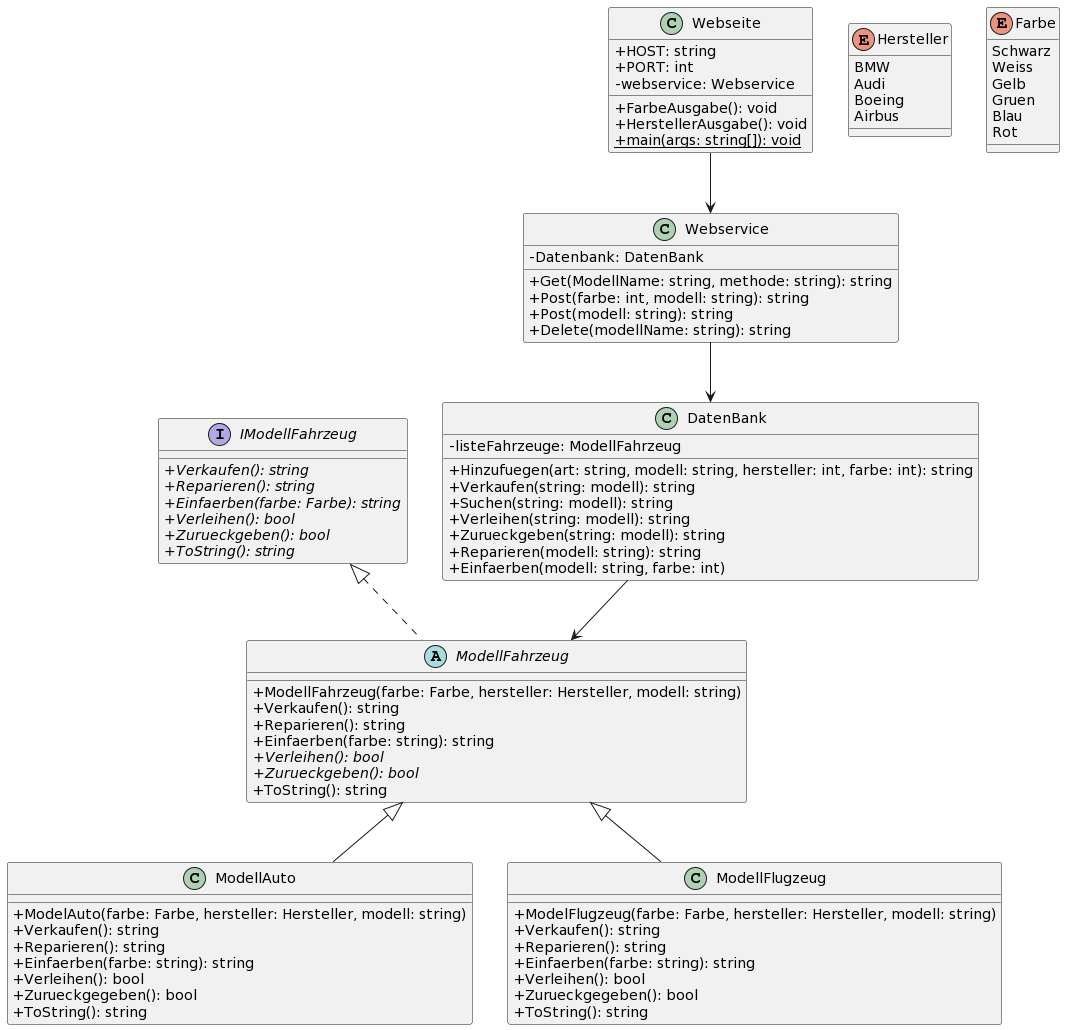
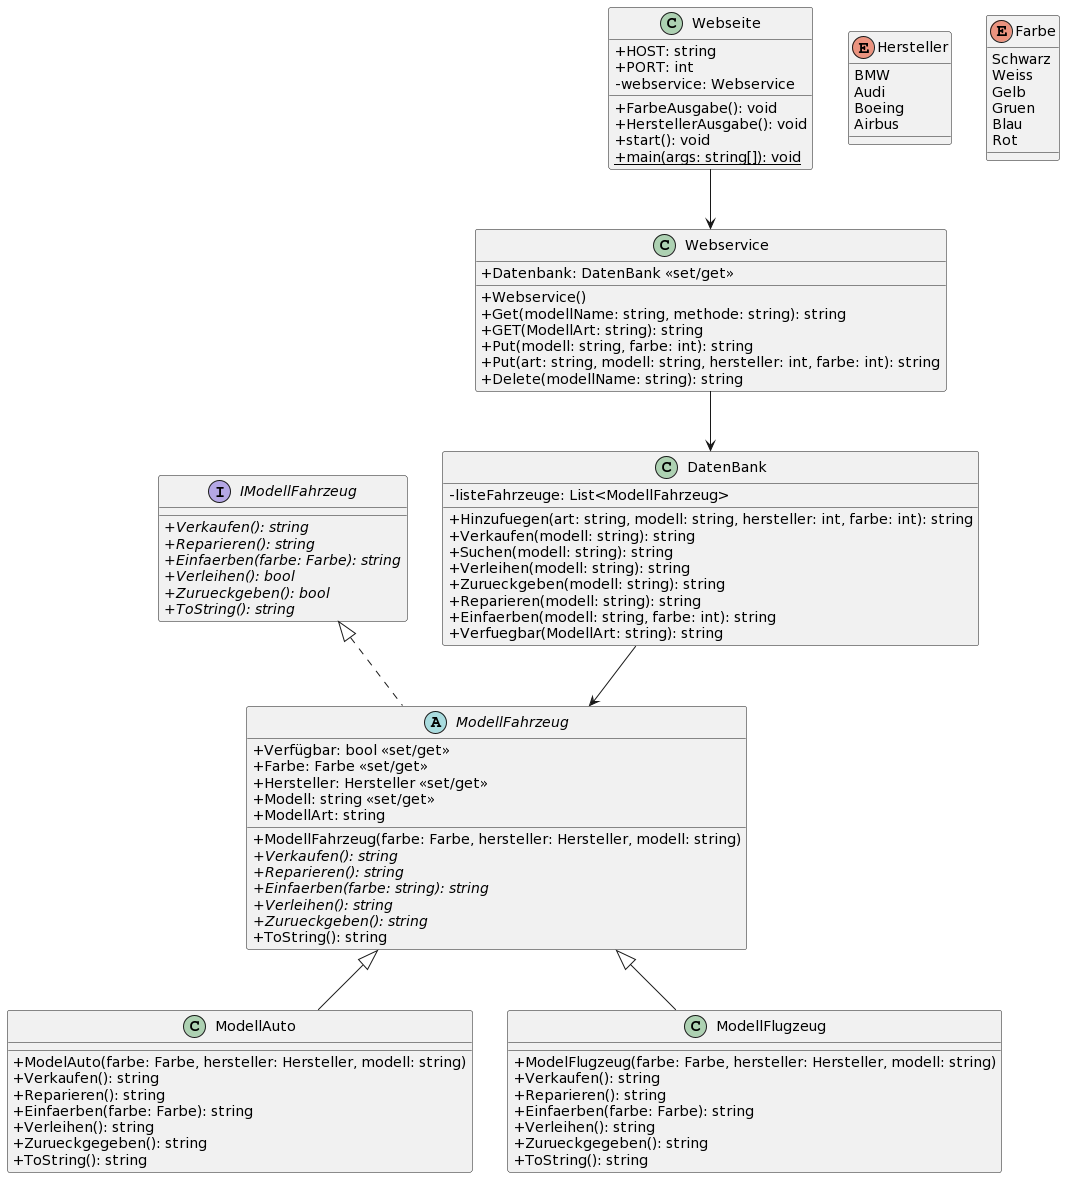
Aktualiesieren des UMLs

diff --git a/Projekt_Team7/Projekt_Team7/DatenBank.cs b/Projekt_Team7/Projekt_Team7/DatenBank.cs
@@ -74,7 +74,7 @@ public class DatenBank
         {
             if (f.Modell.Equals(modell))
             {
-                ausg = f.Verleihen();
+                ausg = f.Verleihen().ToString();
                 break;
             }
             else
@@ -92,7 +92,7 @@ public class DatenBank
         {
             if (f.Modell.Equals(modell))
             {
-                ausg = f.Zurueckgeben();
+                ausg = f.Zurueckgeben().ToString;
                 break;
             }
             else

diff --git a/Projekt_Team7/Projekt_Team7/Webservice.cs b/Projekt_Team7/Projekt_Team7/Webservice.cs
@@ -58,10 +58,10 @@ public class Webservice
         return ausg;
     }
 
-    public string Put(string art,string Modell, int hersteller, int farbe)
+    public string Put(string art,string modell, int hersteller, int farbe)
     {
         // Logik für den PUT-Request zum Hinzufuegen eines Fahrzeugs zur Datenbank
-        Datenbank.Hinzufuegen(art, Modell, hersteller, farbe);
+        Datenbank.Hinzufuegen(art, modell, hersteller, farbe);
         return null;
     }
 
